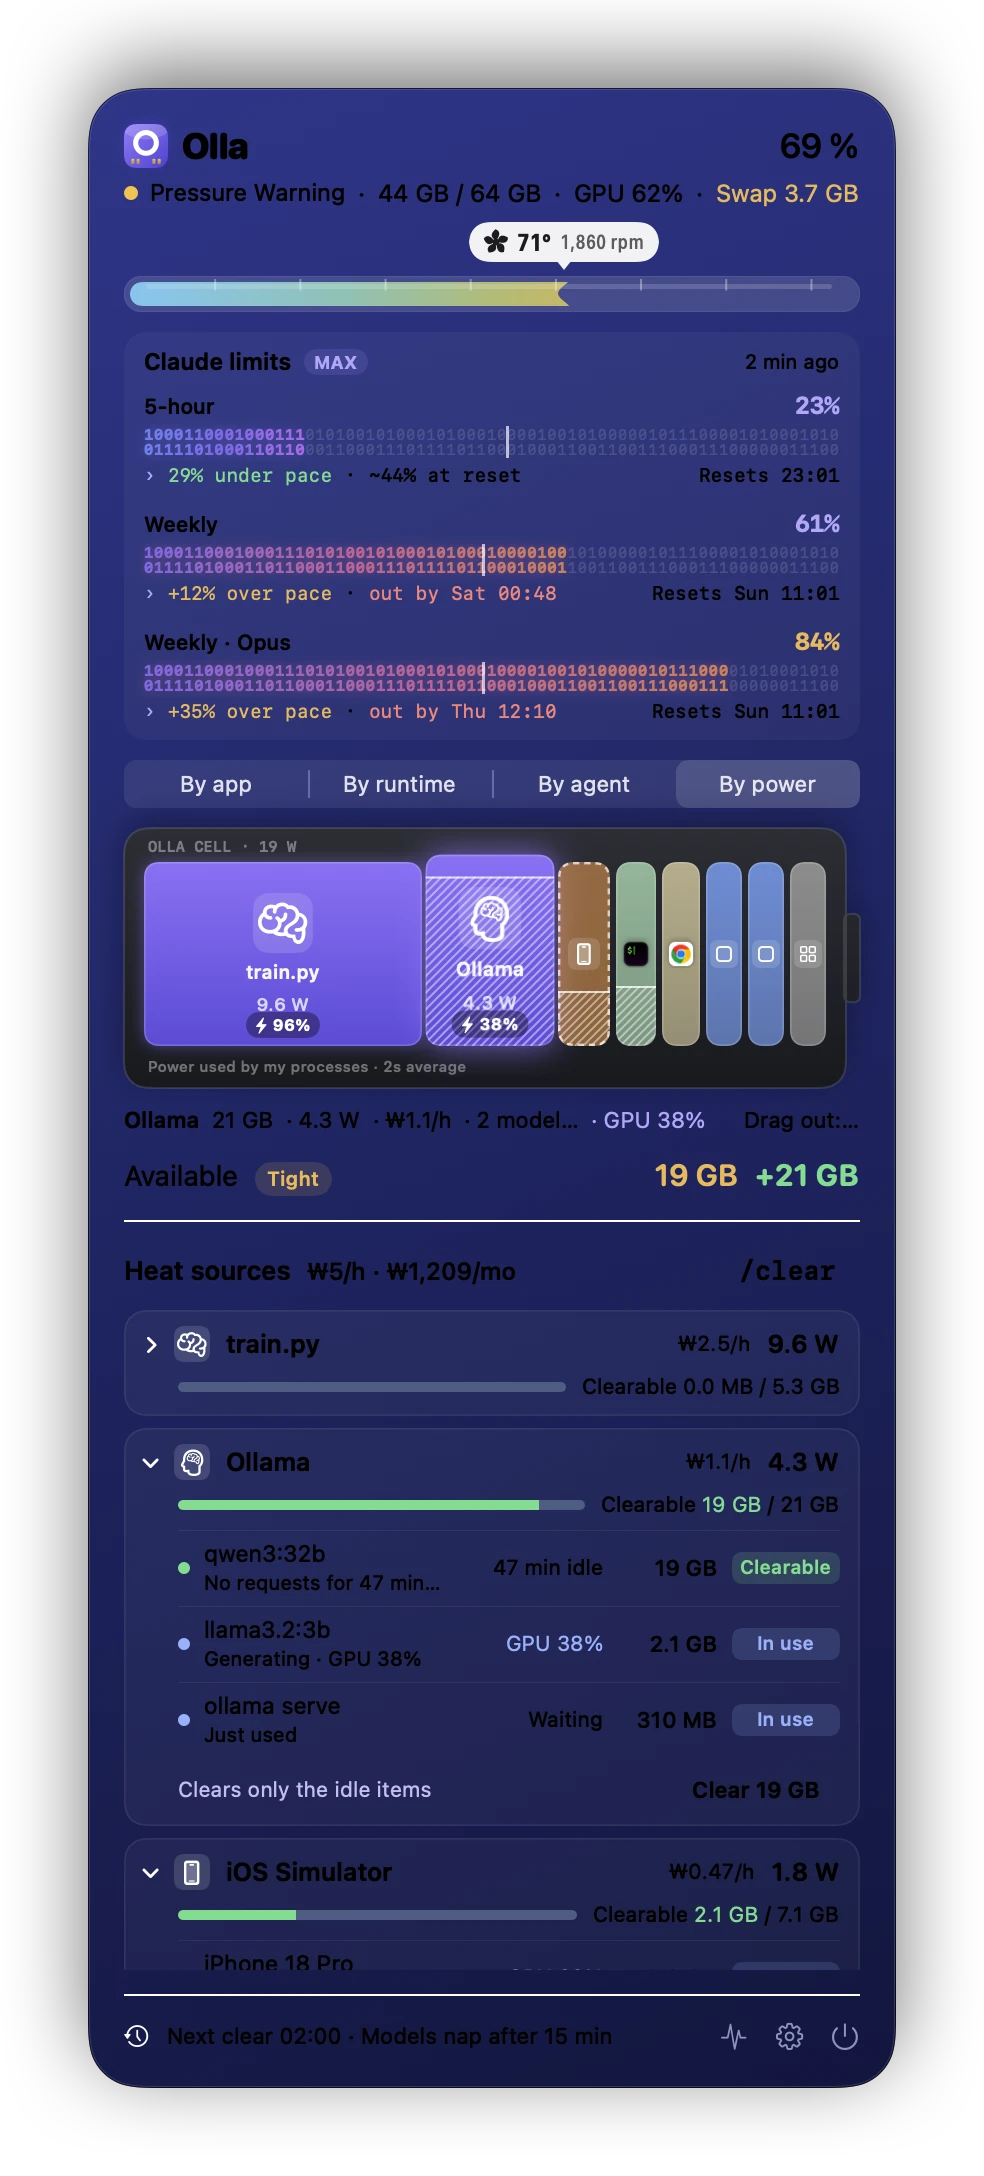
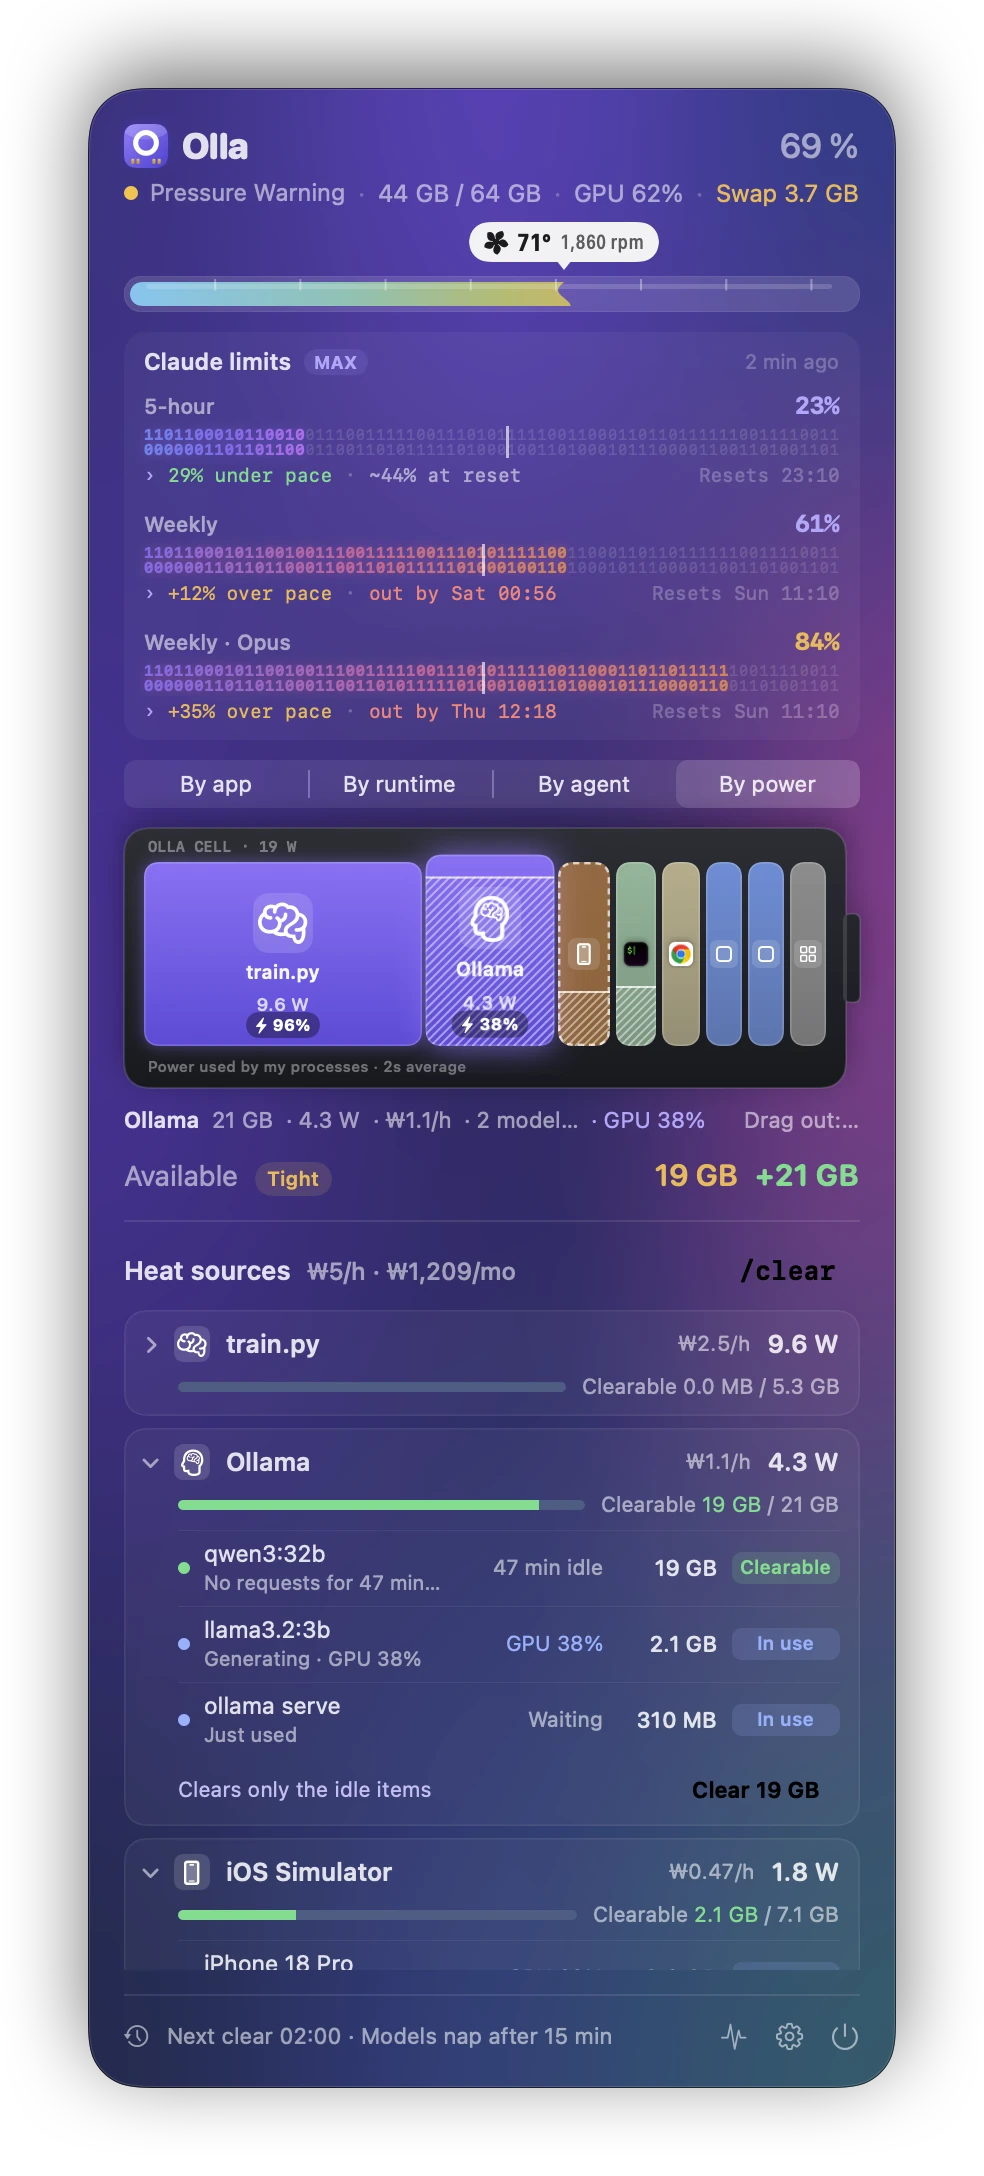
White text on an aurora backdrop, and the maker's name
Offscreen captures couldn't draw the glass's text vibrancy, so the panel's
white text came out black. The screenshots now show the live panel's
white text on a wallpaper-like violet, magenta and teal mesh behind the
glass. Footer: Made by DIJEONG.

diff --git a/README.md b/README.md
@@ -181,4 +181,4 @@ Found a bug or have an idea? [Open an issue](https://github.com/DIJEONG/olla-rel
 
 ---
 
-<sub>© 2026 Olla. All rights reserved.</sub>
+<sub>Made by [DIJEONG](https://github.com/DIJEONG) · © 2026 DIJEONG. All rights reserved.</sub>
